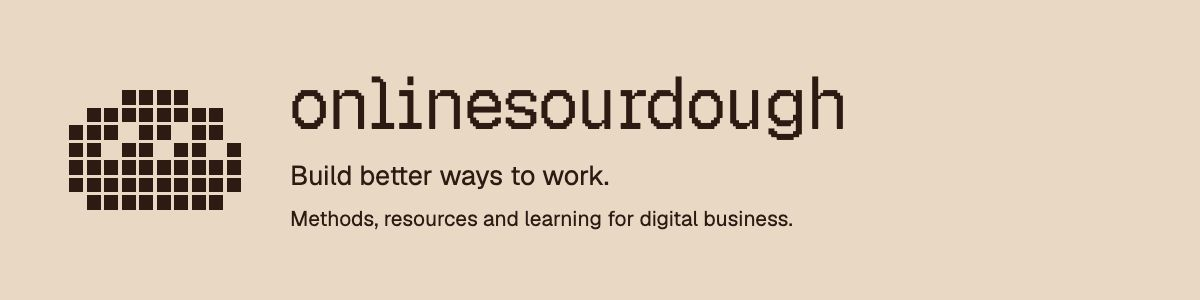
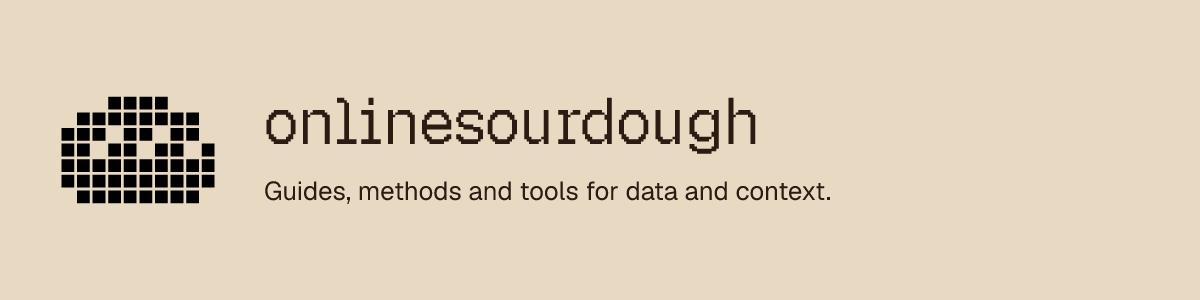
Align profile branding with approved typography

Changed region(s): [[0.0308, 0.3, 0.7092, 0.78], [0.2158, 0.24, 0.7092, 0.51]]

diff --git a/profile/assets/banner.html b/profile/assets/banner.html
@@ -1,25 +1,1 @@
-<!doctype html>
-<html lang="en">
-<meta charset="utf-8">
-<meta name="viewport" content="width=device-width,initial-scale=1">
-<title>onlinesourdough</title>
-<style>
-  @font-face { font-family: Geist; src: url("fonts/geist-sans-variable.woff2"); }
-  @font-face { font-family: Pixel; src: url("fonts/geist-pixel-square.woff2"); }
-  * { box-sizing: border-box; }
-  body { margin: 0; background: #e8d9c3; color: #2b1b12; }
-  main { width: 1200px; height: 300px; display: flex; align-items: center; gap: 48px; padding: 44px 68px; }
-  img { width: 174px; height: 174px; flex-shrink: 0; }
-  h1 { margin: 0 0 14px; font: 72px/1.05 Pixel, monospace; font-weight: 400; }
-  p { margin: 0; font: 27px/1.45 Geist, sans-serif; }
-  p + p { margin-top: 8px; font-size: 21px; }
-</style>
-<main aria-label="onlinesourdough. Build better ways to work.">
-  <img src="onlinesourdough-mark.svg" alt="onlinesourdough">
-  <div>
-    <h1>onlinesourdough</h1>
-    <p>Build better ways to work.</p>
-    <p>Methods, resources and learning for digital business.</p>
-  </div>
-</main>
-</html>
+<!doctype html><html lang="en"><meta charset="utf-8"><title>onlinesourdough</title><body style="margin:0"><img src="onlinesourdough-banner.svg" alt="onlinesourdough" width="1200" height="300"></body></html>

diff --git a/profile/assets/README.md b/profile/assets/README.md
@@ -1,23 +1,7 @@
 # Brand assets
 
-The source mark is the unchanged SVG served at
-https://onlinesourdough.com/assets/onlinesourdough-mark-large-pixel-v3.svg,
-also maintained in the website repository's `public/assets/` directory.
-
-- `onlinesourdough-mark.svg`: the exact website source mark.
-- `onlinesourdough-icon.png`: 512 × 512 PNG for the organisation avatar and plugin icons.
-- `onlinesourdough-banner.png`: 1200 × 300 PNG for the organisation README.
-
-- `banner.html`: editable banner source using the existing mark and brand colours.
-
-The GitHub banner background matches the onlinesourdough tile in Gustav’s LinkedIn banner R11: `#E8D9C3`, confirmed on 17 October 2026. Supporting text retains the website’s brown `#2b1b12`.
-The wordmark uses the website's Geist Pixel Square font; supporting text uses
-Geist Sans. The local fonts retain their SIL Open Font License in
-`fonts/LICENSE.txt`.
-
-Use the common icon for plugins. Ordinary repository READMEs start with their
-title and purpose, without decorative banners or repo-specific icons. The existing method banner assets use the same source mark and colours. Product screenshots,
-useful diagrams and original third-party attribution remain with their owners.
-
-Brand assets retain their owners' rights; a repository's software license does
-not grant rights to its brand identity.
+Approved 1 November 2026. onlinesourdough uses Geist Pixel 400 for its wordmark.
+The icon and established brand colours are unchanged. The outlined SVG and PNG
+render identically without installed fonts. banner.html displays the SVG master.
+The public copy matches the organisation profile. Font licences remain with
+their original owners; the Switzer font binary is not redistributed.

diff --git a/profile/README.md b/profile/README.md
@@ -1,3 +1,5 @@
+[![onlinesourdough](assets/onlinesourdough-banner.svg)](https://onlinesourdough.com)
+
 # onlinesourdough
 
 Guides, methods and tools for building a data and context foundation AI can use.
